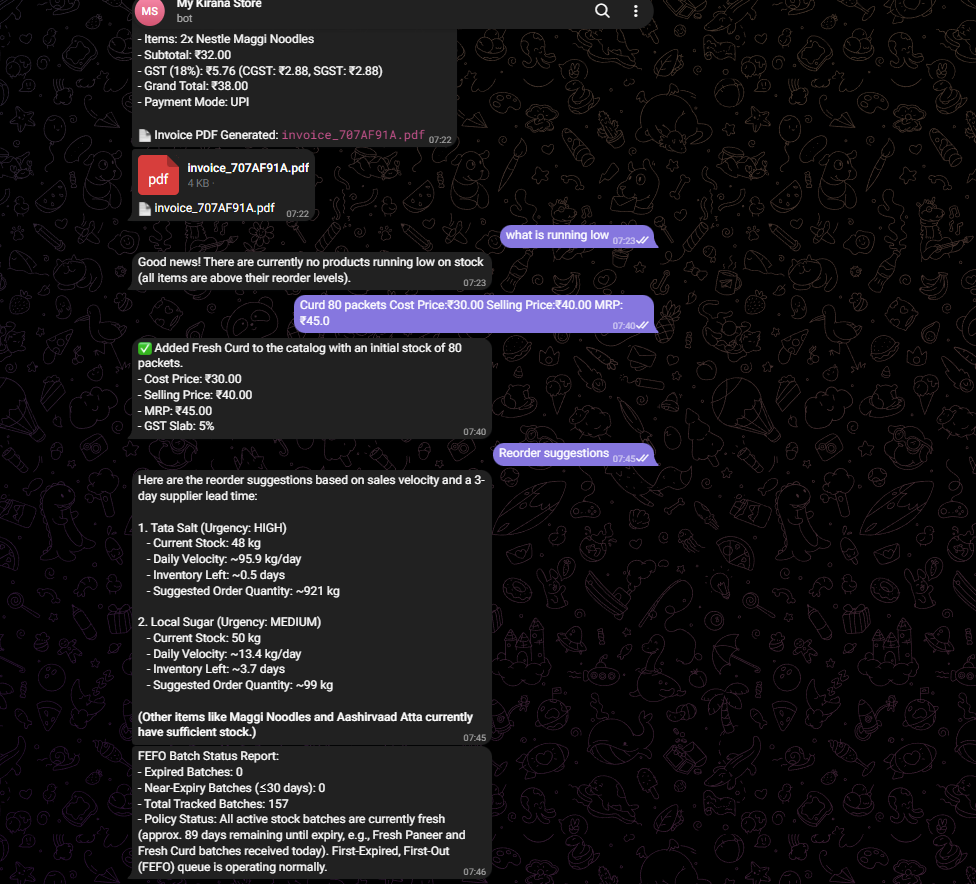
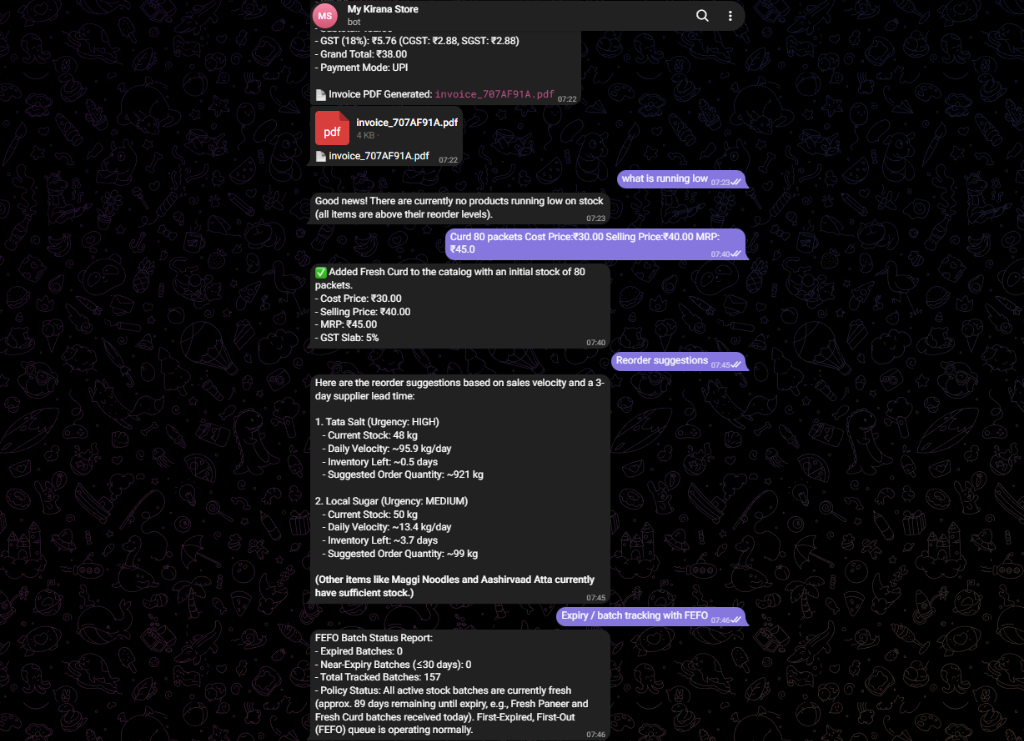
docs: replace 11.png with updated Telegram Bot screenshot (reorder suggestions & FEFO tracking)

diff --git a/README.md b/README.md
@@ -97,7 +97,7 @@ Built as a **production-grade system**, not a demo or prototype, SupermarketBot 
     <td align="center"><img src="screenshort_video and document/10.png" width="360"/><br/><sub>📦 Stock Receive — Batch Tracking</sub></td>
   </tr>
   <tr>
-    <td align="center" colspan="2"><img src="screenshort_video and document/11.png" width="740"/><br/><sub>🏗 Full Agent Architecture Diagram</sub></td>
+    <td align="center" colspan="2"><img src="screenshort_video and document/11.png" width="740"/><br/><sub>💬 Telegram Bot — Reorder Suggestions, FEFO Batch Expiry & Invoice PDF Output</sub></td>
   </tr>
 </table>
 
@@ -121,7 +121,8 @@ All visual documentation, sample outputs, and the demo video are stored in [`scr
 | [`8.png`](./screenshort_video%20and%20document/8.png) | PowerPoint Deck — Auto-generated analytics presentation with charts |
 | [`9.png`](./screenshort_video%20and%20document/9.png) | Low Stock Alert — Telegram notification with reorder quantity |
 | [`10.png`](./screenshort_video%20and%20document/10.png) | Stock Receive — Batch inventory delivery tracking with cost prices |
-| [`11.png`](./screenshort_video%20and%20document/11.png) | Full Architecture Diagram — Complete multi-provider agent flow |
+| [`11.png`](./screenshort_video%20and%20document/11.png) | Telegram Bot — Reorder suggestions, catalog adding & FEFO batch tracking |
+
 
 ### 📄 Sample Documents
 

diff --git a/screenshort_video and document/README.md b/screenshort_video and document/README.md
@@ -18,7 +18,7 @@ This folder contains all visual documentation for the **SupermarketBot** project
 | `8.png` | PowerPoint Analytics Deck Output |
 | `9.png` | Low Stock Alert in Telegram |
 | `10.png` | Stock Receive — Batch Tracking |
-| `11.png` | Full Architecture Diagram |
+| `11.png` | Telegram Bot — Reorder suggestions, catalog adding & FEFO batch tracking |
 
 ---
 
